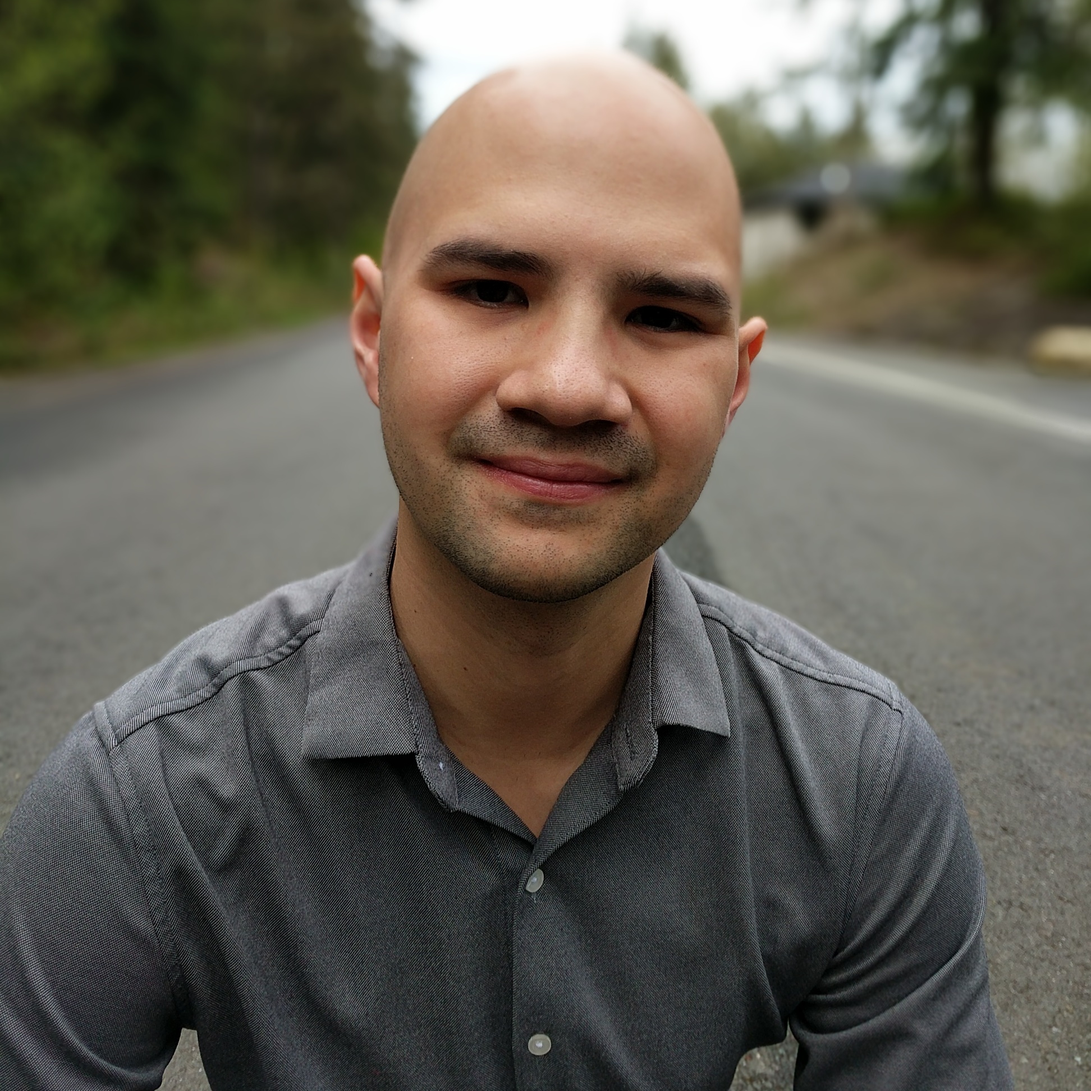
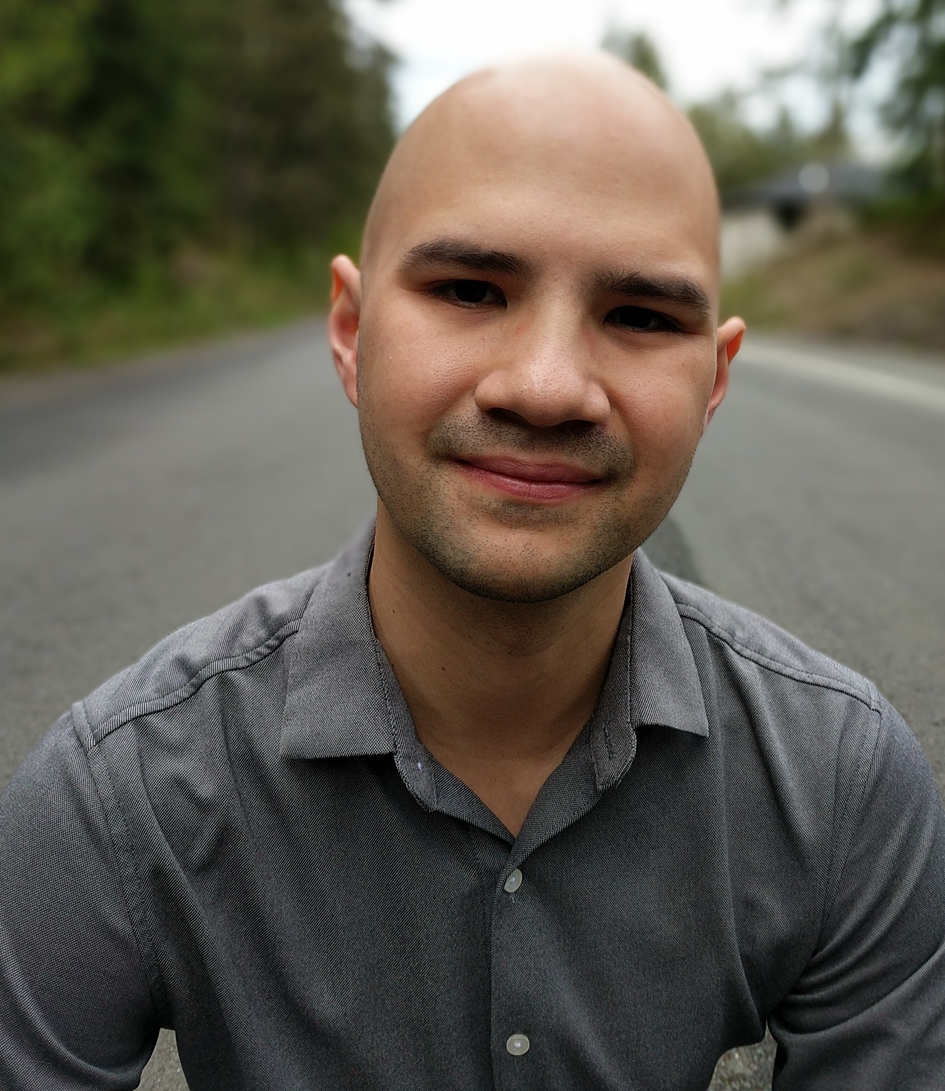
Crop "about" photo, adjust column width.

diff --git a/ui/about.css b/ui/about.css
@@ -8,7 +8,7 @@
   margin-right: 3em;
 }
 #right-column img {
-  width: 20em;
+  width: 30em;
 }
 a p {
   margin: 0;
